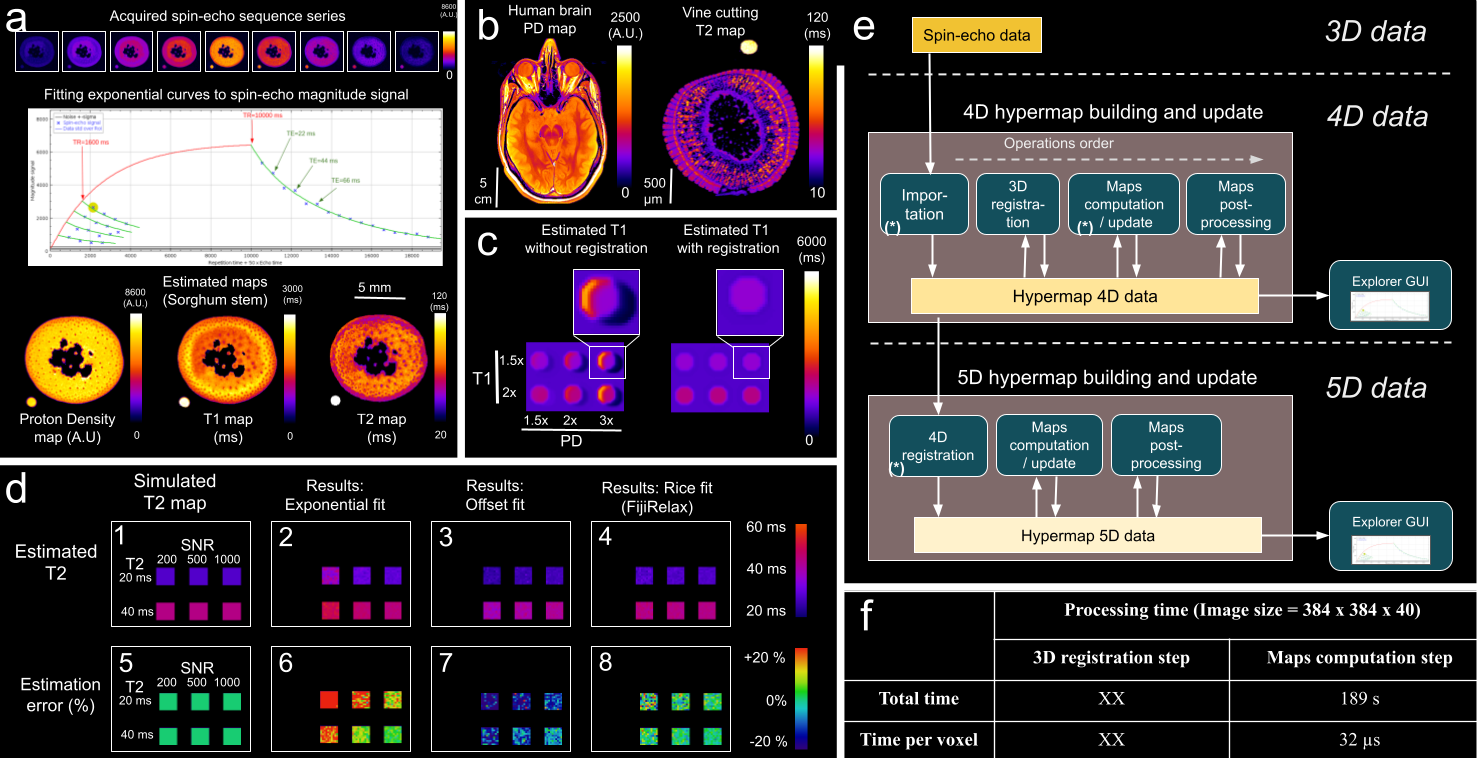
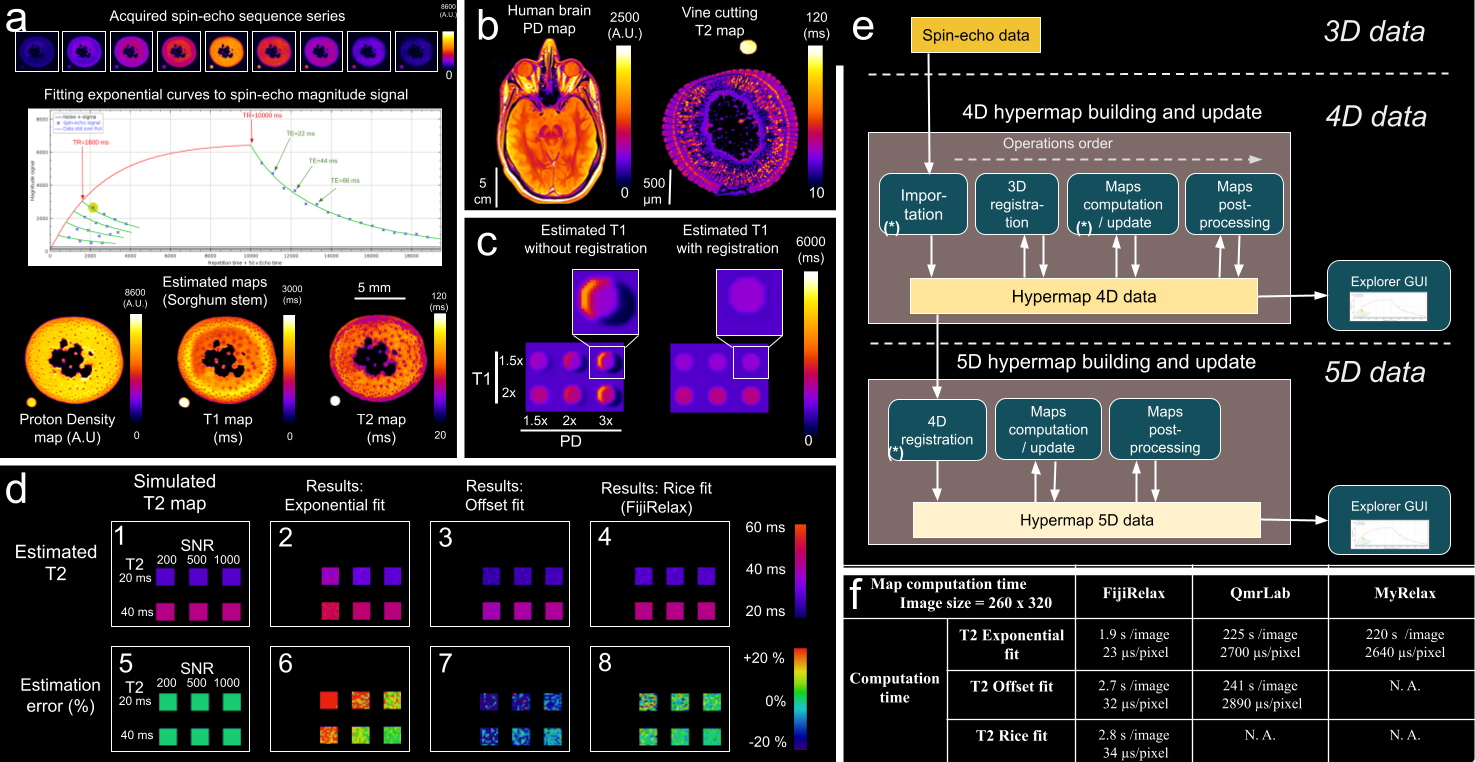
Readproof and table

diff --git a/paper.md b/paper.md
@@ -28,26 +28,26 @@ bibliography: paper.bib
 
 # Summary
 
-Quantitative Magnetic Resonance Imaging (MRI) is a relevant phenotyping technique for deciphering impacts of abiotic and biotic stresses on living samples [@borisjuk2012surveying]. Reproducible measurements of anatomical and physiological modifications can be obtained by quantitative mapping of biomarkers such as proton density (PD) and magnetization relaxation times (T1, T2) in 3D + t. However, applying quantitative MRI to tissues observed at a microscopic scale is still challenging. Detection of weak signals requires longer acquisition times, which favors spatial drift and tissue deformations. In addition, low signal-to-noise ratio (SNR) environments dramatically reduce parameters estimation accuracy [@raya2010t2]. Finally, non-specialists might be deterred by long computation times and the lack of user-friendly solutions. We propose FijiRelax, a Fiji plugin integrating drift correction and noise correction, available as a graphical user interface integrated to ImageJ, and scriptable in BeanShell to allow batch processing for high-throughput experiments.
+Quantitative Magnetic Resonance Imaging (MRI) is a relevant phenotyping technique for deciphering the impacts of abiotic and biotic stresses on living samples [@borisjuk2012surveying]. Reproducible measurements of anatomical and physiological changes can be obtained by quantitative mapping of biomarkers such as proton density (PD) and magnetization relaxation times (T1, T2) in 3D + t. However, the application of quantitative MRI to microscopic scale tissue imaging is still challenging. Detection of weak signals requires longer acquisition times, which favors spatial drift and tissue deformations. In addition, low signal-to-noise ratio (SNR) environments dramatically reduce parameters estimation accuracy [@raya2010t2]. Finally, non-specialists might be deterred by the long computation times and lack of user-friendly solutions. We propose FijiRelax, a Fiji plugin integrating spatial drift correction and rician noise handling. The plugin is available as a graphical interface integrated with ImageJ, and scriptable in Beanshell to allow batch processing for high-throughput experiments.
 
 # Statement of need
 
-FijiRelax is a Fiji plugin allowing calculation and exploration of 3D + t relaxation parameter maps from a series of multi-echo spin-echo sequences. It is a generic tool capable of processing a wide variety of MRI images ranging from a plant stem to a human brain. Its performance was compared to other open-source solutions, in accuracy and computation time. FijiRelax was measured to be 100 times faster than equivalent open-access software in MatLab [@karakuzu2020qmrlab] and Python (see \autoref{fig:figure1}). Moreover, it includes capabilities for spatial drift correction and noise-correction estimation making it suitable to low signal-to-noise ratio situations such as microscopic MRI imaging and time-lapse MRI imaging. This makes it a efficient and generic tool to facilitate the time-lapse analysis of resonance magnetic images and their application to plant and animal biology, as well as medicine (see \autoref{fig:figure1}). FijiRelax is available as a graphical user interface integrated to ImageJ, and also scriptable in BeanShell to allow batch processing. Therefore, it is suited to the processing of high-throughput experiments using the scripting mode.
+FijiRelax is a Fiji plugin allowing the calculation and exploration of 3D + t relaxation parameter maps from a series of multi-echo spin-echo sequences. It is a generic tool capable of processing a wide variety of MRI images ranging from a plant stem to a human brain. Its performance was compared to other open-source solutions in terms of accuracy and computation time. FijiRelax was measured to be up to 100 times faster than equivalent open-access software in MatLab [@karakuzu2020qmrlab] and Python [@GRUSSU2020116884] (see computation time benchmark in \autoref{fig:figure1}). In addition, it includes spatial drift and rician noise correction capabilities, making it suitable for low signal-to-noise situations such as microscopic MRI and time-lapse MRI. This makes it an efficient and generic tool to facilitate time-lapse analysis of magnetic resonance images and their application to plant and animal biology, as well as medicine (see \autoref{fig:figure1}). FijiRelax is available as a graphical user interface integrated with ImageJ, and also scriptable in BeanShell to allow batch processing. It is therefore suitable for processing high-throughput experiments using scripting mode.
 
 
-A comprehensive documentation can be found in the Imagej plugin pages ([Plugin page](https://imagej.net/plugins/fijirelax)). We define three different modes for the user:
+A complete documentation can be found in the Imagej plugin pages ([Plugin page](https://imagej.net/plugins/fijirelax)). We define three different modes for the user:
 
-* Graphical mode: scientists who are non-specialists in image processing nor in programming can download FijiRelax through the official Fiji release, and follow the step-by-step installation instructions, and hands-on tutorials built upon the test dataset hosted at Zenodo [@fijirelaxDataset]. Afterwards, they can use the Graphical user interface to import and process their own Bruker/NIFTI/Custom data, explore the relaxation maps in space and time using the graphical relaxation curve explorer and export their results as 2D/3D/4D TIFF images. This mode should be preferred to investigate new dataset or novel biology questions: among the interface capabilities, the plugin provides a graphical explorer enabling the visualization of PD-weighted T1 and T2 distribution over customizable areas of interest, using mono- or bi-exponential fit. In 5D hypermaps, all timeframe distributions can be displayed simultaneously, giving access to valuable information on the evolution of water distribution in tissues during the monitoring period.
+* Graphical mode: scientists who are not image processing or programming specialists can download FijiRelax through the official Fiji release, and follow the step-by-step installation instructions, as welle as the hands-on tutorials built on the test dataset hosted at Zenodo [@fijirelaxDataset]. Then, they can use the graphical user interface to import and process their own Bruker/NIFTI/Custom data, explore the relaxation maps in space and time using the graphical relaxation curve explorer and export their results as 2D/3D/4D TIFF images. This mode is preferred for studying new datasets or new biological questions. Among the interface features, the plugin provides a graphical explorer to visualize the PD-weighted T1 and T2 distribution over customizable areas of interest, using mono- or bi-exponential fit. In 5D hypermaps, the distributions at each time-point can be displayed simultaneously, giving access to valuable information about the evolution of tissue water distribution during the monitoring period.
 
-* Scripting mode: scientists with programming skills can load the examples Beanshell scripts in the Fiji interface to obtain the results presented in \autoref{fig:figure1}, then adapt these scripts to their needs, including processing their own data, and batch-processing multiple experiments.
+* Scripting mode: scientists with programming skills can load the sample Beanshell scripts by dragging them into the Fiji interface and run the scripts to obtain the results shown in \autoref{fig:figure1}. Then they can adapt these scripts to their needs, including processing their own data and batch-processing multiple experiments.
 
-* Developer mode: programmers fluent with Java and Maven can get start by exploring the FijiRelax API: [API Overview](https://javadoc.io/doc/io.github.rocsg/fijirelax/latest/index.html) and build upon the FijiRelax library, hosted as a jar at maven central repository ([Artifact](https://search.maven.org/artifact/io.github.rocsg/fijirelax) by indicating FijiRelax as a dependency in their POM file. As FijiRelax is hosted on a public repository on github ([Repository](https://github.com/rocsg/fijirelax)) they can propose to contribute to the plugin development.
+* Developer mode: programmers fluent with Java and Maven can get started by exploring the FijiRelax API: [API Overview](https://javadoc.io/doc/io.github.rocsg/fijirelax/latest/index.html). They can build their own tools on top of the FijiRelax library, provided as a jar hosted at maven central repository ([Artifact](https://search.maven.org/artifact/io.github.rocsg/fijirelax), by indicating FijiRelax as a dependency in their POM file. FijiRelax is hosted on a public repository on github ([Repository](https://github.com/rocsg/fijirelax)) and developers can offer to contribute to the development of the the plugin.
 
-FijiRelax efficiently operates with widely different data (see \autoref{fig:figure1}) and is suited to large 3D datasets and time-lapse experiments. We believe FijiRelax will very likely facilitate the implementation of quantitative MRI approaches to open new routes in MRI-based tissue phenotyping.
+FijiRelax works efficiently with a wide range of data (see \autoref{fig:figure1}) and is suitable for large 3D datasets and time-lapse experiments. We believe that FijiRelax will facilitate the implementation of quantitative MRI approaches to open new avenues in MRI-based tissue phenotyping.
 
 # Acknowledgements
 
-We acknowledge contributions from Jean-Luc Verdeil, Christophe Goze-Back, Anne-Sophie Spilmont, Maïda Cardoso and Dimiter Prodanov. 
+We acknowledge the contributions of Jean-Luc Verdeil, Christophe Goze-Back, Anne-Sophie Spilmont, Maïda Cardoso and Dimiter Prodanov. 
 This work was funded by the Plan Deperissement de la Vigne (France Agrimer) and APLIM Project (Agropolis Foundation).
 
 # Figures
